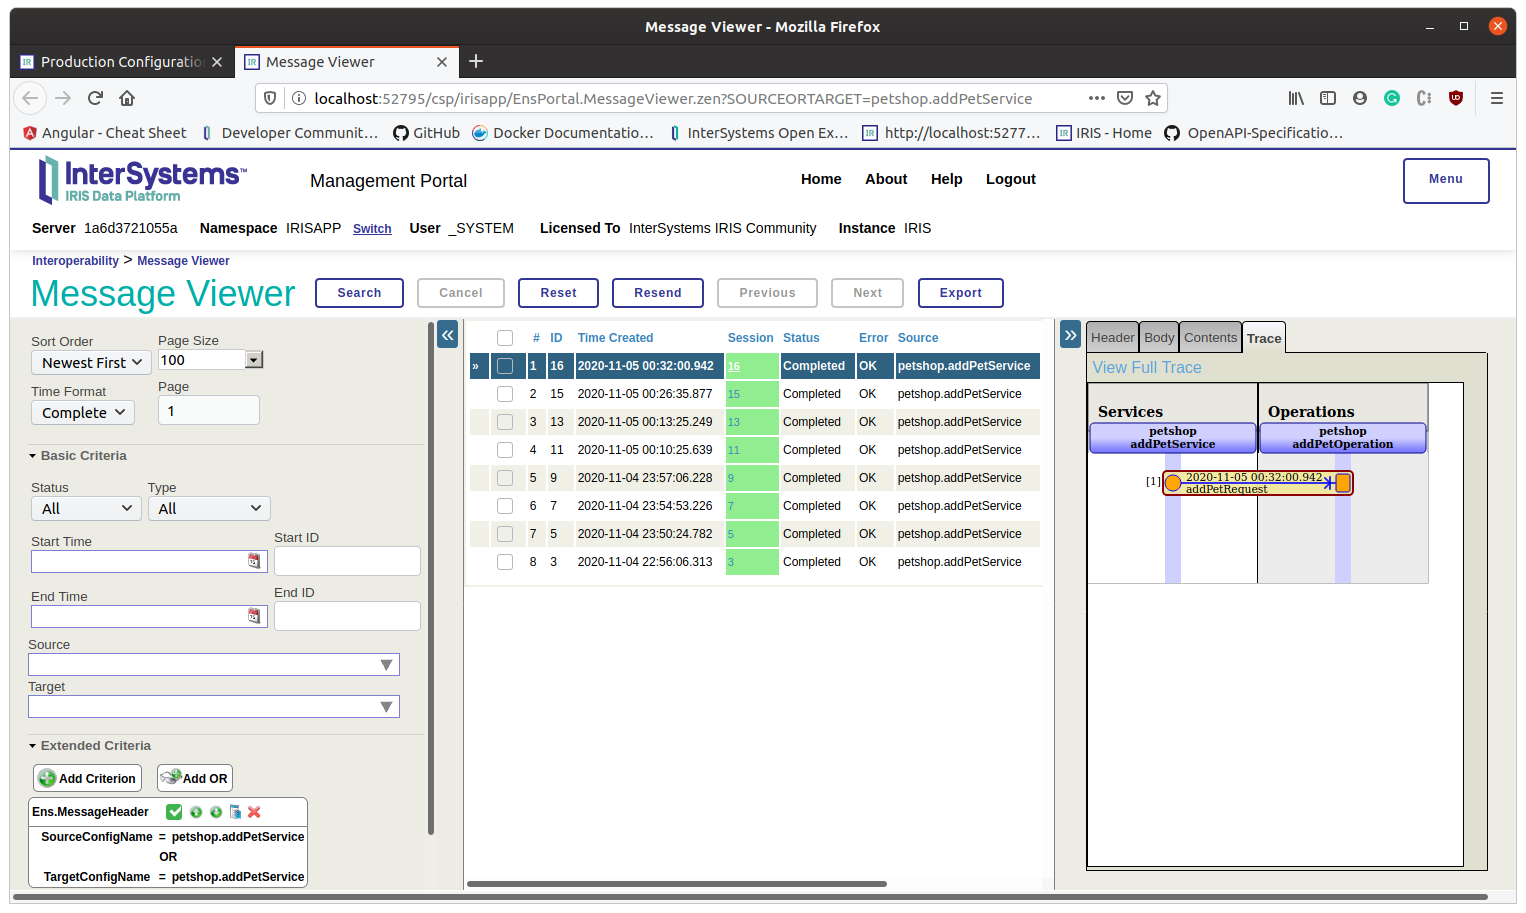
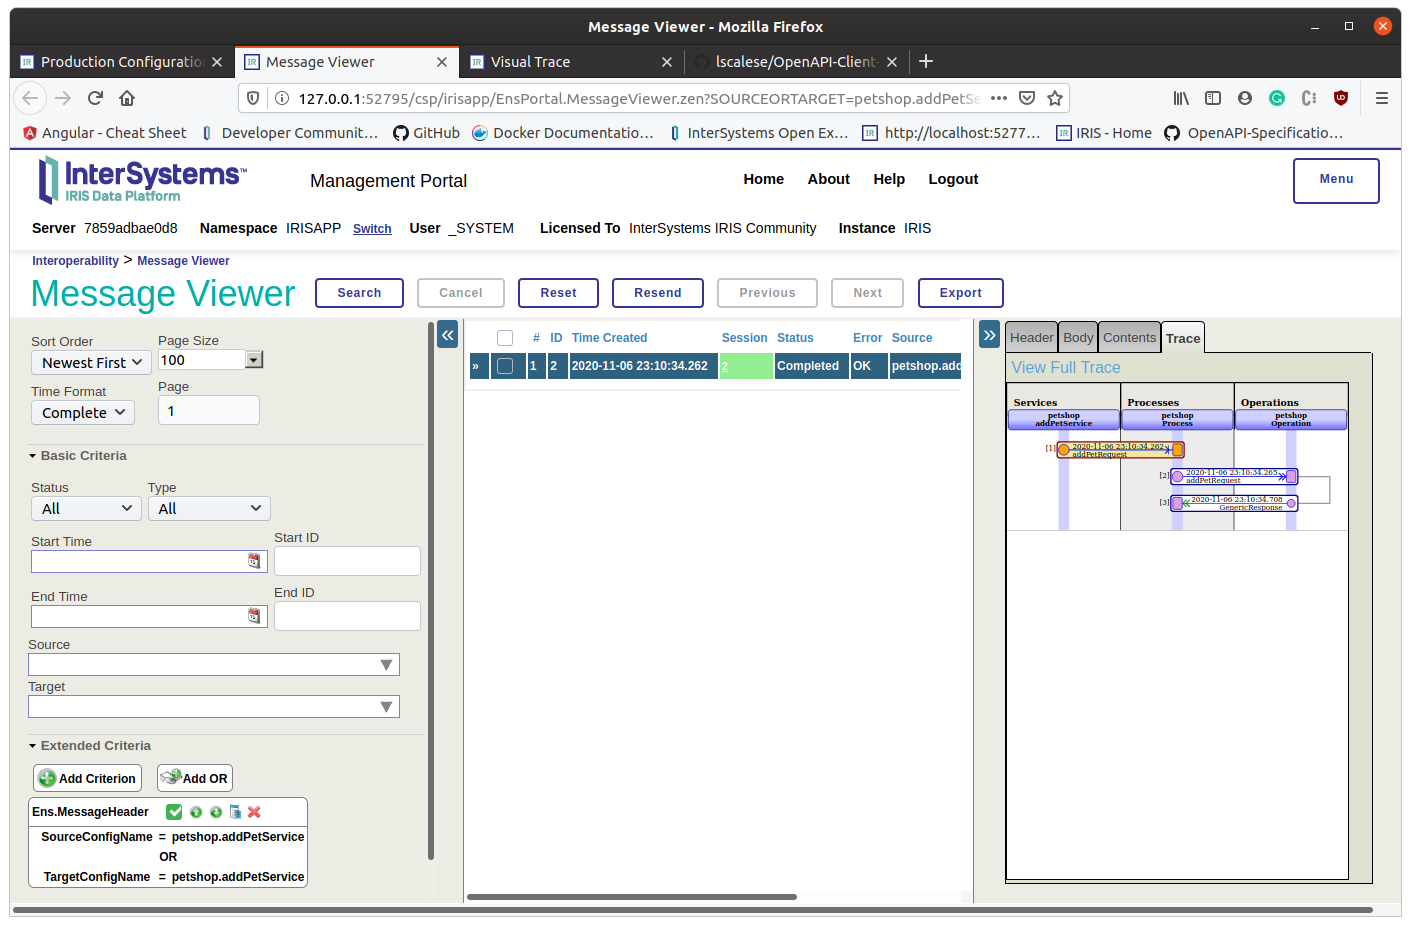
documentation

diff --git a/README.md b/README.md
@@ -109,8 +109,8 @@ Now you can check your production and the message viewer.
 
 <img width="1123" src="https://raw.githubusercontent.com/lscalese/OpenAPI-Client-Gen/master/assets/Production-MessageViewer.png">
 
-Also you can see, the Http Status code logged with a LOG macro
-<img width="1123" src="https://raw.githubusercontent.com/lscalese/OpenAPI-Client-Gen/master/assets/Production-FullTrace.png">
+Also you can analyze alle messages with visual trace.  
+<img width="1123" src="https://raw.githubusercontent.com/lscalese/OpenAPI-Client-Gen/master/assets/Visual-Trace.png">
 
 ## Code snippet
 
